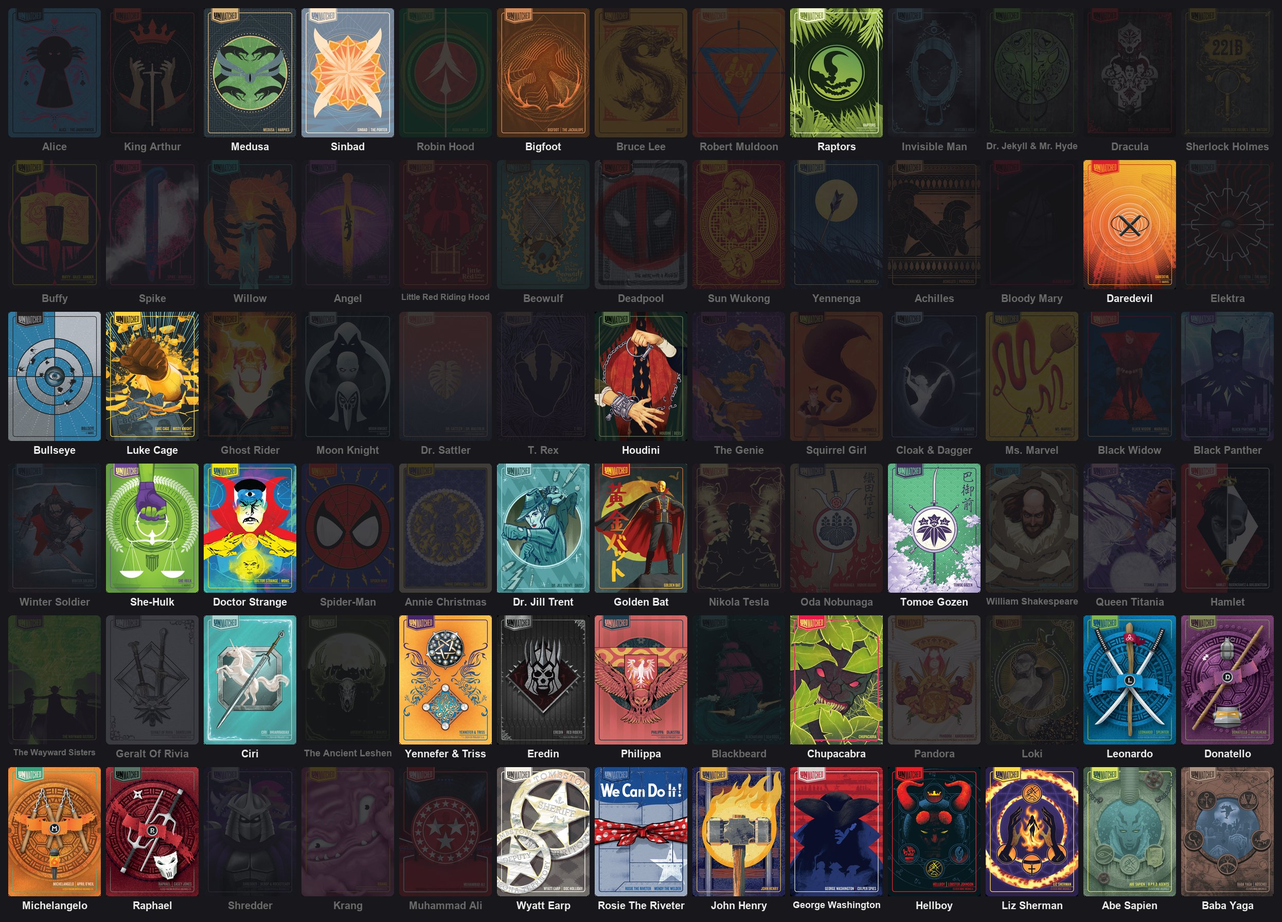
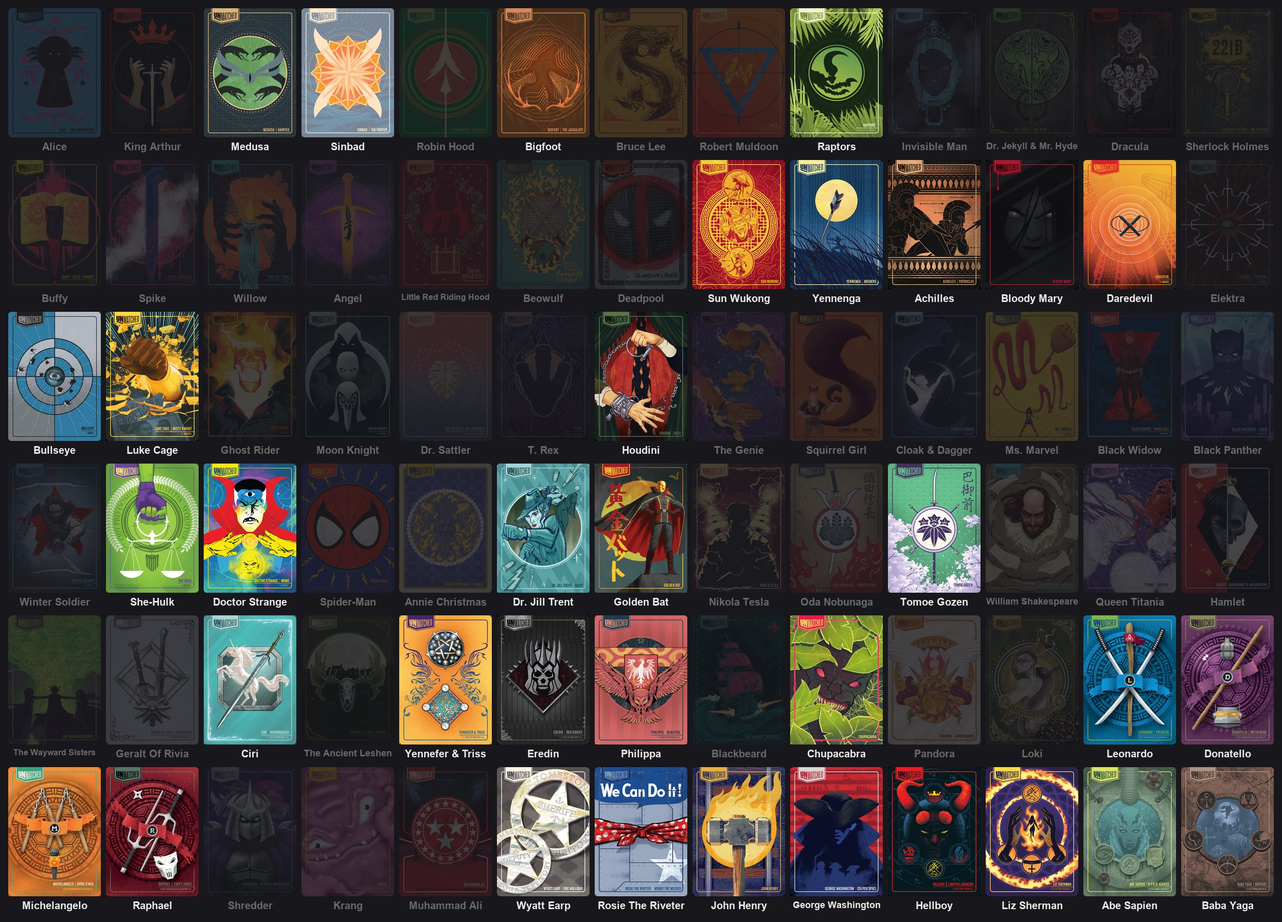
Batch 3 integration: regenerated Bloody Mary HeroDef, fake table finds a turned-up Relentless, archer_faces in the builder list, README with thirty-four heroes
- data/heroes/bloody-mary.json: tools/import_hero.py output after the Stolen Memories change (impact 0.6)
- tests/test_d3_table_effects.py: shuffle_into_deck looks for the human's card face down or face up (the fake table turns played cards up since the double attack)
- tests/test_review4.py: archer_faces (turns tokens, not read only) is a registered builder
- README and assets/heroes-roster.jpg: Sun Wukong, Yennenga, Achilles and Bloody Mary playable, not played live yet
- LOCKS removed (agent farm only)

Claude-Session: https://claude.ai/code/session_01TETrHa2VJSKbf6HmmWoSYo

Changed region(s): [[0.5253, 0.1562, 0.8034, 0.3438], [0.7725, 0.3125, 0.8343, 0.3438]]

diff --git a/tests/test_d3_table_effects.py b/tests/test_d3_table_effects.py
@@ -198,12 +198,13 @@ class FxTable(Table):
         pile, deck = ((self.human_discard, self.human_deck) if human else (self.bot_discard, self.bot_deck))
         if not self._has_deck(s, deck):
             return {"added": 0, "deck": False, "moved": []}
-        on_spot = {r["id"] for r in self.face_down}          # the human's card at the combat spot (Relentless): GUID h<id>
+        on_spot = {r["id"] for r in self.face_down + self.face_up}   # the human's card at the combat spot (Relentless), face down or turned up: GUID h<id>
         added = [(k, int(g)) for k, g in wanted if int(g) not in self.stuck_in_pile
                  and (int(g) in pile or (k == "h" and int(g) in on_spot and human) or (k == "g" and not human and int(g) in self.bot_play))]
         for k, i in added:
             if k == "h":
                 self.face_down = [r for r in self.face_down if r["id"] != i]
+                self.face_up = [r for r in self.face_up if r["id"] != i]
             elif i in self.bot_play:
                 self.bot_play.remove(i)
             else:

diff --git a/tests/test_review4.py b/tests/test_review4.py
@@ -747,6 +747,7 @@ def test_read_only_allowlist_is_exactly_the_pure_read_builders(bprd):
         "reveal_clear": lambda: lua.reveal_clear(),
         "pile_card_to_hand": lambda: lua.pile_card_to_hand("abc", 1, "Blue", identity=TEST_IDENT),
         "card_home": lambda: lua.card_home("abc", (0.0, 0.0, 0.0), (0.0, 0.0, 180.0), identity=TEST_IDENT),
+        "archer_faces": lambda: lua.archer_faces({"abc": 180.0}, ["def"]),
     }
     registered = {n for n, f in inspect.getmembers(lua, inspect.isfunction) if hasattr(f, "__wrapped__")}
     assert registered == set(builders), registered ^ set(builders)

diff --git a/README.md b/README.md
@@ -44,7 +44,7 @@ A Python program that runs next to TTS and plays one side of an Unmatched game a
 
 ![Every hero deck of the tournament savegame, by set and release date: the playable ones in colour, the rest darkened](assets/heroes-roster.jpg)
 
-Thirty heroes are playable, the ones in colour above. Each one has data, effects and table configuration. Each one can be played **by the bot** and **by the human**, in any combination, as long as the two sides are different heroes (their miniature and deck GUIDs would be the same). Yennefer & Triss is one deck with two variants (`yennefer-triss` and `triss-yennefer`: the player picks which one is the hero). The greyed heroes are the other decks of the tournament savegame: the bot recognises them on the table but cannot play them yet.
+Thirty-four heroes are playable, the ones in colour above. Each one has data, effects and table configuration. Each one can be played **by the bot** and **by the human**, in any combination, as long as the two sides are different heroes (their miniature and deck GUIDs would be the same). Yennefer & Triss is one deck with two variants (`yennefer-triss` and `triss-yennefer`: the player picks which one is the hero). The greyed heroes are the other decks of the tournament savegame: the bot recognises them on the table but cannot play them yet.
 
 The picture shows the card back of each deck. `tools\hero_roster.py` regenerates it from `data/catalog/heroes.json`, `data/catalog/sets.json` (heroes ordered by set, sets by release date) and `data/tts`. The rules, abilities, open questions and live-test status of each hero are in [docs/heroes](docs/heroes) (`<slug>.md`; the Triss variant is in `yennefer-triss.md`). Medusa (16 HP, ranged, with three Harpies) has no page of her own: she is the reference implementation the other heroes are built on.
 
@@ -52,11 +52,11 @@ Where this comes from: `data/heroes/<slug>.json` (hero sheet and card list, gene
 
 How each hero is chosen: `bot_hero` / `human_hero` in `config\table.json`, or `--bot-hero SLUG` / `--human-hero SLUG` on the command line. The default is `"auto"`: at start-up the bot reads the table (read-only) and looks for loose Decks or Cards whose CardID falls in a hero's range, assigns each pile to the side whose deck spot is nearest, and prints a line such as `Detected heroes: bot Medusa, human Liz Sherman` (console messages follow the chosen language). If it cannot tell (nothing found, several candidates on one side, the same hero on both sides) it refuses to start (exit code 2) and lists what it saw. Priority: command line, then the value written in the config, then (with `--resume`) the heroes of the saved game, then detection. If the table cannot be read it falls back to Medusa (bot) and Hellboy (human) with a warning.
 
-Status: the data and effects of all thirty heroes are verified against the real cards in the tournament savegame, and the test suite plays them against each other on a fake table (the turtles, Doctor Strange, Houdini and Bigfoot against every other hero, in both seats, with a passive and an attacking human). Played live in real TTS: Hellboy, Liz Sherman, Baba Yaga, Medusa, Raphael, Doctor Strange, Houdini, Raptors and Sinbad (for example the bot's Hellboy against a human Liz Sherman, Baba Yaga and Raphael, and the bot's Raptors against Hellboy and Liz Sherman). Every other hero has not been played live yet (Abe Sapien, Leonardo, Donatello, Michelangelo, Bigfoot, the other Marvel heroes, Golden Bat, Jill Trent, Tomoe Gozen, the Witcher heroes, Chupacabra and the Stars and Stripes heroes), so treat them as less proven; [docs/live-checklist.md](docs/live-checklist.md) lists what is still unchecked per hero.
+Status: the data and effects of all thirty-four heroes are verified against the real cards in the tournament savegame, and the test suite plays them against each other on a fake table (the turtles, Doctor Strange, Houdini and Bigfoot against every other hero, in both seats, with a passive and an attacking human). Played live in real TTS: Hellboy, Liz Sherman, Baba Yaga, Medusa, Raphael, Doctor Strange, Houdini, Raptors and Sinbad (for example the bot's Hellboy against a human Liz Sherman, Baba Yaga and Raphael, and the bot's Raptors against Hellboy and Liz Sherman). Every other hero has not been played live yet (Abe Sapien, Leonardo, Donatello, Michelangelo, Bigfoot, the other Marvel heroes, Golden Bat, Jill Trent, Tomoe Gozen, the Witcher heroes, Chupacabra, the Stars and Stripes heroes and the four Battle of Legends, Volume Two heroes: Sun Wukong, Yennenga, Achilles and Bloody Mary), so treat them as less proven; [docs/live-checklist.md](docs/live-checklist.md) lists what is still unchecked per hero.
 
 Limitations:
 
-- The human side is limited to those thirty heroes. The detector also recognises the decks of the other 48 heroes of the tournament savegame (`data/catalog/heroes.json`), but only to give a clear message such as `The human plays Bruce Lee, which the bot cannot play yet. Playable heroes: ...`. Letting the human play any catalog hero (the bot would only need its values and hand counts) is feature F19, still in the backlog.
+- The human side is limited to those thirty-four heroes. The detector also recognises the decks of the other 44 heroes of the tournament savegame (`data/catalog/heroes.json`), but only to give a clear message such as `The human plays Bruce Lee, which the bot cannot play yet. Playable heroes: ...`. Letting the human play any catalog hero (the bot would only need its values and hand counts) is feature F19, still in the backlog.
 - Which cards of your hero does the bot resolve for you? Mostly none: you apply your own card effects on the table, and the bot checks the important ones (movements, discards, draws) against its own rules engine and tells you what to do. See [How to play](#4-how-to-play).
 - Heroes outside the roster need effects, a card sheet and table data written first (see [Adding a hero](#adding-a-hero)). A bot hero without coded effects would announce that its ability "is not coded yet" and play by card value and boost only.
 
@@ -411,7 +411,7 @@ Work on a branch per change (for example `feat/...`, `fix/...`, `docs/...`) and 
 
 Works (verified against FakeTTS, and live where noted):
 
-- Full games between any two of the thirty heroes on the B.P.R.D. table, with set-up, mulligan, combat, schemes, ONGOING cards, forms and counters, exhaustion, health dials and game over.
+- Full games between any two of the thirty-four heroes on the B.P.R.D. table, with set-up, mulligan, combat, schemes, ONGOING cards, forms and counters, exhaustion, health dials and game over.
 - Live games from set-up to the end: the bot's Hellboy against Liz Sherman, Baba Yaga and Raphael, and the bot's Liz Sherman and Baba Yaga. The panel, set-up, Hellboy's form change and Destiny dial, Pancakes!, Crown of Flame, Pact Of Secrecy, Fight Or Flight, Feint, Evade and many other cards have been checked on the real table. Medusa's Harpies and fallen pieces have been confirmed too.
 - Resuming after closing the bot or reloading TTS, restarting the game, and a plain-text game log in `state\session.log`.
 - Fast play: about one TTS message per button.
@@ -420,7 +420,7 @@ Works (verified against FakeTTS, and live where noted):
 Known limitations:
 
 - Not everything has been seen on a real table. The live checklist ([docs/live-checklist.md](docs/live-checklist.md)) lists what is still unchecked per hero: for example Glimpse Of Hell, Confront Any Demon or God, Out Of Time, and parts of the announce pause.
-- The human is limited to the thirty heroes (F19). The bot is calibrated for one table (the tournament savegame) and for you being White and the bot Green.
+- The human is limited to the thirty-four heroes (F19). The bot is calibrated for one table (the tournament savegame) and for you being White and the bot Green.
 - You resolve the effects of your own cards by hand. The bot learns about them from the table (discard, health dials) and by the buttons you press; effects that move or place pieces on your side are validated, but your own Maneuver and miniature moves are read without validation.
 - Look-at-hand effects that the bot suffers (your card looks at its hand) are done by laying its hand out. When one of the bot's cards lets it look at your hand, it reads your hand zone at that moment only and forgets each card as it leaves your hand; this has not been seen on a real table yet.
 - Two equidistant spaces cannot be told apart from the table snapshot.
